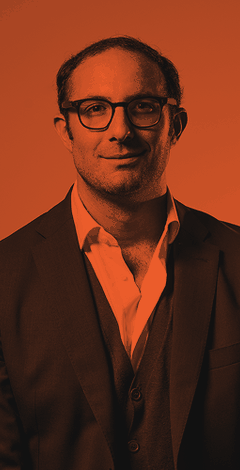
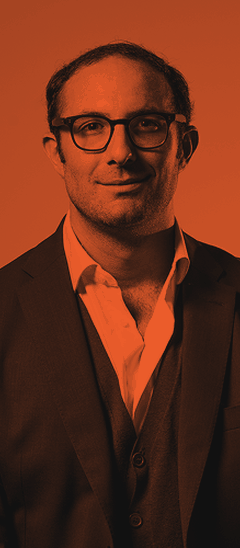
Add files via upload

diff --git a/firme-td-team.html b/firme-td-team.html
@@ -1,93 +1,96 @@
 <!doctype html><html lang="it"><head><meta charset="utf-8"><title>Firme TD · team</title></head><body style="font-family:Helvetica,Arial,sans-serif;padding:32px;background:#fff;">
 <h2 style="font-size:13px;letter-spacing:1px;color:#888">Giovanni Nicolosi</h2>
-<table cellpadding="0" cellspacing="0" border="0" width="470" bgcolor="#111111" style="border-collapse:collapse;background-color:#111111;width:470px;max-width:470px;font-family:'Space Grotesk','Helvetica Neue',Helvetica,Arial,sans-serif;">
+<table cellpadding="0" cellspacing="0" border="0" width="470" bgcolor="#111111" style="border-collapse:collapse;background-color:#111111;width:470px;max-width:470px;font-family:'Space Grotesk','Segoe UI',-apple-system,'Helvetica Neue',Helvetica,Arial,sans-serif;">
   <tr>
     <td valign="top" style="padding:22px 20px 22px 24px;">
       <table cellpadding="0" cellspacing="0" border="0" width="100%" style="border-collapse:collapse;">
         <tr>
           <td valign="middle" style="padding:0;">
-            <a href="https://thousandreams.ai" style="text-decoration:none;"><img src="https://raw.githubusercontent.com/thousandreamsrl-coder/thousandreams.ai/refs/heads/main/td-logo-horizontal-white.png" width="81" height="34" alt="Thousand Dreams" style="display:block;border:0;outline:none;"></a>
+            <a href="https://thousandreams.ai" style="text-decoration:none;"><img src="https://raw.githubusercontent.com/thousandreamsrl-coder/thousandreams.ai/refs/heads/main/td-monogram-white.png" width="46" height="35" alt="Thousand Dreams" style="display:block;border:0;outline:none;"></a>
           </td>
           <td valign="middle" align="right" style="padding:0;text-align:right;">
             <img src="https://raw.githubusercontent.com/thousandreamsrl-coder/thousandreams.ai/refs/heads/main/c2pa-white.png" width="33" height="27" alt="Contenuti certificati C2PA" style="display:block;border:0;outline:none;width:33px;height:27px;margin-left:auto;">
           </td>
         </tr>
       </table>
-      <div style="font-size:1px;line-height:12px;">&nbsp;</div>
+      <div style="font-size:1px;line-height:14px;">&nbsp;</div>
       <div style="height:1px;line-height:1px;font-size:0;background-color:rgba(255,255,255,0.2);">&nbsp;</div>
       <div style="font-size:1px;line-height:16px;">&nbsp;</div>
-      <div style="font-size:20px;line-height:26px;font-weight:600;color:#FFFFFF;letter-spacing:-0.5px;">Giovanni Nicolosi</div>
-      <div style="font-size:13px;line-height:20px;color:rgba(255,255,255,0.6);">Co Founder · Head of Operations &amp; Production</div>
-      <div style="font-size:1px;line-height:12px;">&nbsp;</div>
-      <div style="font-size:13px;line-height:21px;color:#FFFFFF;"><a href="tel:+393450149350" style="color:#FFFFFF;text-decoration:none;">+39 345 0149350</a> · <a href="mailto:giovanni@thousandreams.ai" style="color:#FFFFFF;text-decoration:none;">giovanni@thousandreams.ai</a></div>
-      <div style="font-size:13px;line-height:21px;color:#FFFFFF;"><a href="https://thousandreams.ai" style="color:#FFFFFF;text-decoration:none;">thousandreams.ai</a> · <a href="https://vimeo.com/1209808283/73a92a5874" style="color:#FFFFFF;text-decoration:none;">Showreel</a> · <a href="https://thousandreams.ai/contact-us" style="color:#EB5C2B;text-decoration:none;">Prenota una call</a></div>
+      <img src="https://raw.githubusercontent.com/thousandreamsrl-coder/thousandreams.ai/refs/heads/main/gio-plate.png" width="285" height="45" alt="Giovanni Nicolosi · Co Founder · Head of Operations &amp; Production" style="display:block;border:0;outline:none;width:285px;height:45px;">
+      <div style="font-size:1px;line-height:14px;">&nbsp;</div>
+      <div style="font-size:14px;line-height:23px;color:#FFFFFF;letter-spacing:-0.1px;"><a href="tel:+393450149350" style="color:#FFFFFF;text-decoration:none;">+39 345 0149350</a></div>
+      <div style="font-size:14px;line-height:23px;color:#FFFFFF;letter-spacing:-0.1px;"><a href="mailto:giovanni@thousandreams.ai" style="color:#FFFFFF;text-decoration:none;">giovanni@thousandreams.ai</a></div>
+      <div style="font-size:1px;line-height:11px;">&nbsp;</div>
+      <div style="font-size:12.5px;line-height:20px;"><a href="https://thousandreams.ai" style="color:rgba(255,255,255,0.62);text-decoration:none;">thousandreams.ai</a> <span style="color:rgba(255,255,255,0.28);">·</span> <a href="https://vimeo.com/1209808283/73a92a5874" style="color:rgba(255,255,255,0.62);text-decoration:none;">Showreel</a> <span style="color:rgba(255,255,255,0.28);">·</span> <a href="https://thousandreams.ai/contact-us" style="color:#EB5C2B;text-decoration:none;">Prenota una call</a></div>
       <div style="font-size:1px;line-height:16px;">&nbsp;</div>
       <img src="https://raw.githubusercontent.com/thousandreamsrl-coder/thousandreams.ai/refs/heads/main/td-claim-white.png" width="200" height="12" alt="/imagine: let's talk about your next project" style="display:block;border:0;outline:none;width:200px;height:12px;">
     </td>
     <td valign="top" width="120" style="width:120px;padding:0;font-size:0;line-height:0;">
-      <img src="https://raw.githubusercontent.com/thousandreamsrl-coder/thousandreams.ai/refs/heads/main/gio-duo-n2.png" width="120" height="235" alt="Giovanni Nicolosi" style="display:block;border:0;outline:none;width:120px;height:235px;">
+      <img src="https://raw.githubusercontent.com/thousandreamsrl-coder/thousandreams.ai/refs/heads/main/gio-duo-n2.png" width="120" height="274" alt="Giovanni Nicolosi" style="display:block;border:0;outline:none;width:120px;height:274px;">
     </td>
   </tr>
 </table>
 <hr style="border:0;border-top:1px solid #ddd;margin:44px 0">
 <h2 style="font-size:13px;letter-spacing:1px;color:#888">Edoardo Scotti</h2>
-<table cellpadding="0" cellspacing="0" border="0" width="470" bgcolor="#111111" style="border-collapse:collapse;background-color:#111111;width:470px;max-width:470px;font-family:'Space Grotesk','Helvetica Neue',Helvetica,Arial,sans-serif;">
+<table cellpadding="0" cellspacing="0" border="0" width="470" bgcolor="#111111" style="border-collapse:collapse;background-color:#111111;width:470px;max-width:470px;font-family:'Space Grotesk','Segoe UI',-apple-system,'Helvetica Neue',Helvetica,Arial,sans-serif;">
   <tr>
     <td valign="top" style="padding:22px 20px 22px 24px;">
       <table cellpadding="0" cellspacing="0" border="0" width="100%" style="border-collapse:collapse;">
         <tr>
           <td valign="middle" style="padding:0;">
-            <a href="https://thousandreams.ai" style="text-decoration:none;"><img src="https://raw.githubusercontent.com/thousandreamsrl-coder/thousandreams.ai/refs/heads/main/td-logo-horizontal-white.png" width="81" height="34" alt="Thousand Dreams" style="display:block;border:0;outline:none;"></a>
+            <a href="https://thousandreams.ai" style="text-decoration:none;"><img src="https://raw.githubusercontent.com/thousandreamsrl-coder/thousandreams.ai/refs/heads/main/td-monogram-white.png" width="46" height="35" alt="Thousand Dreams" style="display:block;border:0;outline:none;"></a>
           </td>
           <td valign="middle" align="right" style="padding:0;text-align:right;">
             <img src="https://raw.githubusercontent.com/thousandreamsrl-coder/thousandreams.ai/refs/heads/main/c2pa-white.png" width="33" height="27" alt="Contenuti certificati C2PA" style="display:block;border:0;outline:none;width:33px;height:27px;margin-left:auto;">
           </td>
         </tr>
       </table>
-      <div style="font-size:1px;line-height:12px;">&nbsp;</div>
+      <div style="font-size:1px;line-height:14px;">&nbsp;</div>
       <div style="height:1px;line-height:1px;font-size:0;background-color:rgba(255,255,255,0.2);">&nbsp;</div>
       <div style="font-size:1px;line-height:16px;">&nbsp;</div>
-      <div style="font-size:20px;line-height:26px;font-weight:600;color:#FFFFFF;letter-spacing:-0.5px;">Edoardo Scotti</div>
-      <div style="font-size:13px;line-height:20px;color:rgba(255,255,255,0.6);">Co Founder · Creative Direction &amp; Partnerships</div>
-      <div style="font-size:1px;line-height:12px;">&nbsp;</div>
-      <div style="font-size:13px;line-height:21px;color:#FFFFFF;"><a href="tel:+393515891579" style="color:#FFFFFF;text-decoration:none;">+39 351 5891579</a> · <a href="mailto:edoardo@thousandreams.ai" style="color:#FFFFFF;text-decoration:none;">edoardo@thousandreams.ai</a></div>
-      <div style="font-size:13px;line-height:21px;color:#FFFFFF;"><a href="https://thousandreams.ai" style="color:#FFFFFF;text-decoration:none;">thousandreams.ai</a> · <a href="https://vimeo.com/1209808283/73a92a5874" style="color:#FFFFFF;text-decoration:none;">Showreel</a> · <a href="https://thousandreams.ai/contact-us" style="color:#EB5C2B;text-decoration:none;">Prenota una call</a></div>
+      <img src="https://raw.githubusercontent.com/thousandreamsrl-coder/thousandreams.ai/refs/heads/main/edo-plate.png" width="287" height="45" alt="Edoardo Scotti · Co Founder · Creative Direction &amp; Partnerships" style="display:block;border:0;outline:none;width:287px;height:45px;">
+      <div style="font-size:1px;line-height:14px;">&nbsp;</div>
+      <div style="font-size:14px;line-height:23px;color:#FFFFFF;letter-spacing:-0.1px;"><a href="tel:+393515891579" style="color:#FFFFFF;text-decoration:none;">+39 351 5891579</a></div>
+      <div style="font-size:14px;line-height:23px;color:#FFFFFF;letter-spacing:-0.1px;"><a href="mailto:edoardo@thousandreams.ai" style="color:#FFFFFF;text-decoration:none;">edoardo@thousandreams.ai</a></div>
+      <div style="font-size:1px;line-height:11px;">&nbsp;</div>
+      <div style="font-size:12.5px;line-height:20px;"><a href="https://thousandreams.ai" style="color:rgba(255,255,255,0.62);text-decoration:none;">thousandreams.ai</a> <span style="color:rgba(255,255,255,0.28);">·</span> <a href="https://vimeo.com/1209808283/73a92a5874" style="color:rgba(255,255,255,0.62);text-decoration:none;">Showreel</a> <span style="color:rgba(255,255,255,0.28);">·</span> <a href="https://thousandreams.ai/contact-us" style="color:#EB5C2B;text-decoration:none;">Prenota una call</a></div>
       <div style="font-size:1px;line-height:16px;">&nbsp;</div>
       <img src="https://raw.githubusercontent.com/thousandreamsrl-coder/thousandreams.ai/refs/heads/main/td-claim-white.png" width="200" height="12" alt="/imagine: let's talk about your next project" style="display:block;border:0;outline:none;width:200px;height:12px;">
     </td>
     <td valign="top" width="120" style="width:120px;padding:0;font-size:0;line-height:0;">
-      <img src="https://raw.githubusercontent.com/thousandreamsrl-coder/thousandreams.ai/refs/heads/main/edo-duo-n2.png" width="120" height="235" alt="Edoardo Scotti" style="display:block;border:0;outline:none;width:120px;height:235px;">
+      <img src="https://raw.githubusercontent.com/thousandreamsrl-coder/thousandreams.ai/refs/heads/main/edo-duo-n2.png" width="120" height="274" alt="Edoardo Scotti" style="display:block;border:0;outline:none;width:120px;height:274px;">
     </td>
   </tr>
 </table>
 <hr style="border:0;border-top:1px solid #ddd;margin:44px 0">
 <h2 style="font-size:13px;letter-spacing:1px;color:#888">Enrico Conte</h2>
-<table cellpadding="0" cellspacing="0" border="0" width="470" bgcolor="#111111" style="border-collapse:collapse;background-color:#111111;width:470px;max-width:470px;font-family:'Space Grotesk','Helvetica Neue',Helvetica,Arial,sans-serif;">
+<table cellpadding="0" cellspacing="0" border="0" width="470" bgcolor="#111111" style="border-collapse:collapse;background-color:#111111;width:470px;max-width:470px;font-family:'Space Grotesk','Segoe UI',-apple-system,'Helvetica Neue',Helvetica,Arial,sans-serif;">
   <tr>
     <td valign="top" style="padding:22px 20px 22px 24px;">
       <table cellpadding="0" cellspacing="0" border="0" width="100%" style="border-collapse:collapse;">
         <tr>
           <td valign="middle" style="padding:0;">
-            <a href="https://thousandreams.ai" style="text-decoration:none;"><img src="https://raw.githubusercontent.com/thousandreamsrl-coder/thousandreams.ai/refs/heads/main/td-logo-horizontal-white.png" width="81" height="34" alt="Thousand Dreams" style="display:block;border:0;outline:none;"></a>
+            <a href="https://thousandreams.ai" style="text-decoration:none;"><img src="https://raw.githubusercontent.com/thousandreamsrl-coder/thousandreams.ai/refs/heads/main/td-monogram-white.png" width="46" height="35" alt="Thousand Dreams" style="display:block;border:0;outline:none;"></a>
           </td>
           <td valign="middle" align="right" style="padding:0;text-align:right;">
             <img src="https://raw.githubusercontent.com/thousandreamsrl-coder/thousandreams.ai/refs/heads/main/c2pa-white.png" width="33" height="27" alt="Contenuti certificati C2PA" style="display:block;border:0;outline:none;width:33px;height:27px;margin-left:auto;">
           </td>
         </tr>
       </table>
-      <div style="font-size:1px;line-height:12px;">&nbsp;</div>
+      <div style="font-size:1px;line-height:14px;">&nbsp;</div>
       <div style="height:1px;line-height:1px;font-size:0;background-color:rgba(255,255,255,0.2);">&nbsp;</div>
       <div style="font-size:1px;line-height:16px;">&nbsp;</div>
-      <div style="font-size:20px;line-height:26px;font-weight:600;color:#FFFFFF;letter-spacing:-0.5px;">Enrico Conte</div>
-      <div style="font-size:13px;line-height:20px;color:rgba(255,255,255,0.6);">Co Founder · Technical Director</div>
-      <div style="font-size:1px;line-height:12px;">&nbsp;</div>
-      <div style="font-size:13px;line-height:21px;color:#FFFFFF;"><a href="tel:+393479838427" style="color:#FFFFFF;text-decoration:none;">+39 347 9838427</a> · <a href="mailto:enrico@thousandreams.ai" style="color:#FFFFFF;text-decoration:none;">enrico@thousandreams.ai</a></div>
-      <div style="font-size:13px;line-height:21px;color:#FFFFFF;"><a href="https://thousandreams.ai" style="color:#FFFFFF;text-decoration:none;">thousandreams.ai</a> · <a href="https://vimeo.com/1209808283/73a92a5874" style="color:#FFFFFF;text-decoration:none;">Showreel</a> · <a href="https://thousandreams.ai/contact-us" style="color:#EB5C2B;text-decoration:none;">Prenota una call</a></div>
+      <img src="https://raw.githubusercontent.com/thousandreamsrl-coder/thousandreams.ai/refs/heads/main/enri-plate.png" width="193" height="45" alt="Enrico Conte · Co Founder · Technical Director" style="display:block;border:0;outline:none;width:193px;height:45px;">
+      <div style="font-size:1px;line-height:14px;">&nbsp;</div>
+      <div style="font-size:14px;line-height:23px;color:#FFFFFF;letter-spacing:-0.1px;"><a href="tel:+393479838427" style="color:#FFFFFF;text-decoration:none;">+39 347 9838427</a></div>
+      <div style="font-size:14px;line-height:23px;color:#FFFFFF;letter-spacing:-0.1px;"><a href="mailto:enrico@thousandreams.ai" style="color:#FFFFFF;text-decoration:none;">enrico@thousandreams.ai</a></div>
+      <div style="font-size:1px;line-height:11px;">&nbsp;</div>
+      <div style="font-size:12.5px;line-height:20px;"><a href="https://thousandreams.ai" style="color:rgba(255,255,255,0.62);text-decoration:none;">thousandreams.ai</a> <span style="color:rgba(255,255,255,0.28);">·</span> <a href="https://vimeo.com/1209808283/73a92a5874" style="color:rgba(255,255,255,0.62);text-decoration:none;">Showreel</a> <span style="color:rgba(255,255,255,0.28);">·</span> <a href="https://thousandreams.ai/contact-us" style="color:#EB5C2B;text-decoration:none;">Prenota una call</a></div>
       <div style="font-size:1px;line-height:16px;">&nbsp;</div>
       <img src="https://raw.githubusercontent.com/thousandreamsrl-coder/thousandreams.ai/refs/heads/main/td-claim-white.png" width="200" height="12" alt="/imagine: let's talk about your next project" style="display:block;border:0;outline:none;width:200px;height:12px;">
     </td>
     <td valign="top" width="120" style="width:120px;padding:0;font-size:0;line-height:0;">
-      <img src="https://raw.githubusercontent.com/thousandreamsrl-coder/thousandreams.ai/refs/heads/main/enri-duo-n2.png" width="120" height="235" alt="Enrico Conte" style="display:block;border:0;outline:none;width:120px;height:235px;">
+      <img src="https://raw.githubusercontent.com/thousandreamsrl-coder/thousandreams.ai/refs/heads/main/enri-duo-n2.png" width="120" height="274" alt="Enrico Conte" style="display:block;border:0;outline:none;width:120px;height:274px;">
     </td>
   </tr>
 </table>
